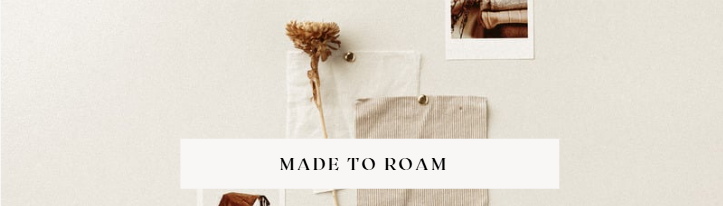
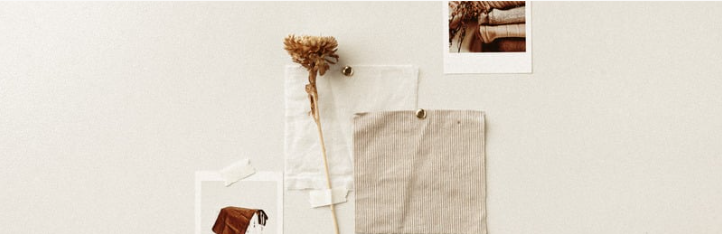
Updated product cards, added welcome animation & added photos on the about rove and maker pages

diff --git a/products.html b/products.html
@@ -4,6 +4,9 @@
         <meta charset="UTF-8">
         <meta name="viewport" content="width=device-width, initial-scale=1.0">
         <title>Rove Crafts</title>
+        <link rel="preconnect" href="https://fonts.googleapis.com">
+        <link rel="preconnect" href="https://fonts.gstatic.com" crossorigin>
+        <link href="https://fonts.googleapis.com/css2?family=Dancing+Script:wght@400..700&display=swap" rel="stylesheet">
         <link rel="stylesheet" href="style.css">
         <link href="https://cdn.jsdelivr.net/npm/bootstrap@5.3.0/dist/css/bootstrap.min.css" rel="stylesheet">
     </head>
@@ -20,7 +23,7 @@
                     <li><a href="contact.html">Contact</a></li>
                 </ul>
                 <ul>
-                    <li><a href="#">Rove Crafts</a></li>
+                    <li class="logo"><a href="#">Rove Crafts</a></li>
                     <li class="hideOnMobile"><a href="index.html">Home</a></li>
                     <li class="hideOnMobile"><a href="products.html">Products</a></li>
                     <li class="hideOnMobile"><a href="about.html">About Rove</a></li>             
@@ -41,9 +44,11 @@
         <div class="product-card">
           <img src="product1.jpg" alt="Bag 1" onclick="openLightbox(this.src)" />
           <div class="info">
-            <h3>Product 1</h3>
-            <p>P 250.00</p>
-            <a href="https://wa.me/26773376600/?text=Hi! I would like to order Product 4" class="order-btn">Order Now</a>
+            <h3>Donut Bag</h3>
+            <p class="price">P 350.00</p>
+            <p class="size">Size:Approx. 35cm (W) x 30cm (H)</p>
+            <p class="description">A sleek, classic shoulder bag designed to hold your daily essentials with a clean, structured silhouette..</p>
+            <a href="https://wa.me/26773376600/?text=Hi! I would like to order the Donut Bag" class="order-btn">Order Now</a>
           </div>
         </div>
       </div>
@@ -52,9 +57,11 @@
         <div class="product-card">
           <img src="product2.jpg" alt="Bag 2" onclick="openLightbox(this.src)" />
           <div class="info">
-            <h3>Product 2</h3>
-            <p>P 250.00</p>
-            <a href="https://wa.me/26773376600/?text=Hi! I would like to order Product 2" class="order-btn">Order Now</a>
+            <h3>The Essential</h3>
+            <p class="price">P 275.00</p>
+            <p class="size">Size:Approx. 35cm (W) x 40cm (H)</p>
+            <p class="description">Our signature everyday bag, meticulously hand-stitched for maximum durability and a modern, minimalist look.</p>
+            <a href="https://wa.me/26773376600/?text=Hi! I would like to order The Essential Bag" class="order-btn">Order Now</a>
           </div>
         </div>
       </div>
@@ -63,9 +70,11 @@
         <div class="product-card">
           <img src="product3.jpg" alt="Bag 3" onclick="openLightbox(this.src)" />
           <div class="info">
-            <h3>Product 3</h3>
-            <p >P 250.00</p>
-            <a href="https://wa.me/26773376600/?text=Hi! I would like to order Product 3" class="order-btn">Order Now</a>
+            <h3>The Tote Mini</h3>
+            <p class="price">P 300.00</p>
+            <p class="size">Size: Approx. 30cm (W) x 25cm (H)</p>
+            <p class="description">Features a reinforced, integrated top handle, blending a compact size with a bold, chunky texture.</p>
+            <a href="https://wa.me/26773376600/?text=Hi! I would like to order the Tote Mini" class="order-btn">Order Now</a>
           </div>
         </div>
       </div>
@@ -74,9 +83,11 @@
         <div class="product-card">
           <img src="product4.jpg" alt="Bag 4" onclick="openLightbox(this.src)" />
           <div class="info">
-            <h3>Product 4</h3>
-            <p>P 250.00</p>
-            <a href="https://wa.me/26773376600/?text=Hi! I would like to order Product 4" class="order-btn">Order Now</a>
+            <h3>The Capsule</h3>
+            <p class="price">P 250.00</p>
+            <p class="size">Size: Approx. 25cm (W) x 30cm (H)</p>
+            <p class="description">A structured, timeless silhouette detailed with metallic connecting rings for a tailored, boutique finish.</p>
+            <a href="https://wa.me/26773376600/?text=Hi! I would like to order The Capsule" class="order-btn">Order Now</a>
           </div>
         </div>
       </div>

diff --git a/style.css b/style.css
@@ -8,6 +8,73 @@ body {
     background-color: #f8f7f6;
     color: #333;
 }
+#welcome-screen {
+  position: fixed;
+  inset: 0;
+  z-index: 99999;
+  display: flex;
+  align-items: center;
+  justify-content: center;
+  flex-direction: column;
+  transition: opacity 0.8s ease;
+}
+
+#welcome-screen.fade-out {
+  opacity: 0;
+  pointer-events: none;
+}
+
+#welcome-content {
+  text-align: center;
+  color: #333;
+}
+
+#welcome-content h1 {
+  font-size: 48px;
+  font-weight: 600;
+  opacity: 0;
+  transform: translateY(20px);
+  animation: slideUp 0.8s ease forwards;
+}
+
+#welcome-content p {
+  font-size: 18px;
+  opacity: 0;
+  transform: translateY(20px);
+  animation: slideUp 0.8s ease 0.3s forwards;
+}
+
+@keyframes slideUp {
+  to {
+    opacity: 1;
+    transform: translateY(0);
+  }
+}
+
+body.blurred header,
+body.blurred main,
+body.blurred footer {
+  filter: blur(8px);
+  transition: filter 0.8s ease;
+}
+
+@media (max-width: 480px) {
+  #welcome-content h1 {
+    font-size: 32px;
+  }
+  #welcome-content p {
+    font-size: 15px;
+  }
+}
+
+.logo{
+  font-family: 'Dancing Script', cursive;
+  font-size: 30px;
+  font-weight: 700;
+  color: #333;
+}
+
+
 nav{
     background-color: rgb(238, 224, 207);
     box-shadow: 3px 3px 5px rgba(0, 0, 0, 0.1) ;
@@ -119,6 +186,29 @@ nav li:first-child{
   }
 }
 
+.page-banner {
+  position: relative;
+  width: 100%;
+  height: 250px;      
+  overflow: hidden;
+}
+
+.page-banner img {
+  width: 100%;
+  height: 100%;
+  object-fit: cover;
+  display: block;
+}
+
+@media (max-width: 768px) {
+  .page-banner {
+    height: 160px;
+  }
+
+  .page-banner .banner-text h1 {
+    font-size: 22px;
+  }
+}
 .product-card {
   background: #fff;
   border: 1px solid #e0e0e0;
@@ -143,6 +233,27 @@ nav li:first-child{
 .product-card .info {
   padding: 12px 14px 14px;
 }
+
+.product-card .price {
+  font-size: 18px;
+  font-weight: 500;
+  color: black;      
+  margin-bottom: 4px;
+}
+
+.product-card .size {
+  font-size: 16px;
+  color: black;
+  margin-bottom: 6px;
+}
+
+.product-card .description {
+  font-size: 16px;
+  color: black;
+  line-height: 1.5;
+  margin-bottom: 12px;
+}
+
 .order-btn {
   display: block;
   width: 100%;

diff --git a/index.html b/index.html
@@ -4,10 +4,22 @@
         <meta charset="UTF-8">
         <meta name="viewport" content="width=device-width, initial-scale=1.0">
         <title>Rove Crafts</title>
+        <link rel="preconnect" href="https://fonts.googleapis.com">
+        <link rel="preconnect" href="https://fonts.gstatic.com" crossorigin>
+        <link href="https://fonts.googleapis.com/css2?family=Dancing+Script:wght@400..700&display=swap" rel="stylesheet">
         <link rel="stylesheet" href="style.css">
         <link href="https://cdn.jsdelivr.net/npm/bootstrap@5.3.0/dist/css/bootstrap.min.css" rel="stylesheet">
     </head>
     <body>
+
+      <div id="welcome-screen">
+        <div id="welcome-content">
+          <h2>Welcome To</h2>
+          <h1>Rove Crafts</h1>
+          <h3>~made to roam</h3>
+        </div>
+      </div>
+
         <header>
             <nav>
                 <ul class="sidebar">
@@ -20,7 +32,7 @@
                     <li><a href="contact.html">Contact</a></li>
                 </ul>
                 <ul>
-                    <li><a href="#">Rove Crafts</a></li>
+                    <li class="logo"><a href="#">Rove Crafts</a></li>
                     <li class="hideOnMobile"><a href="index.html">Home</a></li>
                     <li class="hideOnMobile"><a href="products.html">Products</a></li>
                     <li class="hideOnMobile"><a href="about.html">About Rove</a></li>             
@@ -31,7 +43,10 @@
             </nav>   
         </header>
 
-           
+        <div class="page-banner">
+            <img src="homepage.png" alt="Page banner" />
+        </div> 
+ 
         
         <main>
             <p>Rove Crafts Welcomes You!</p>

diff --git a/maker.html b/maker.html
@@ -4,6 +4,9 @@
         <meta charset="UTF-8">
         <meta name="viewport" content="width=device-width, initial-scale=1.0">
         <title>Rove Crafts</title>
+        <link rel="preconnect" href="https://fonts.googleapis.com">
+        <link rel="preconnect" href="https://fonts.gstatic.com" crossorigin>
+        <link href="https://fonts.googleapis.com/css2?family=Dancing+Script:wght@400..700&display=swap" rel="stylesheet">
         <link rel="stylesheet" href="style.css">
         <link href="https://cdn.jsdelivr.net/npm/bootstrap@5.3.0/dist/css/bootstrap.min.css" rel="stylesheet">
     </head>
@@ -20,7 +23,7 @@
                     <li><a href="contact.html">Contact</a></li>
                 </ul>
                 <ul>
-                    <li><a href="#">Rove Crafts</a></li>
+                    <li clas="logo"><a href="#">Rove Crafts</a></li>
                     <li class="hideOnMobile"><a href="index.html">Home</a></li>
                     <li class="hideOnMobile"><a href="products.html">Products</a></li>
                     <li class="hideOnMobile"><a href="about.html">About Rove</a></li>             
@@ -35,7 +38,7 @@
                 <div class="row align-items-center g-4">
 
                     <div class="col-12 col-md-5">
-                        <img src="makerphoto.jpg" alt="The Maker"
+                        <img src="myphoto.jpg" alt="The Maker"
                         class="img-fluid rounded"/>
                     </div>
 

diff --git a/about.html b/about.html
@@ -4,6 +4,9 @@
         <meta charset="UTF-8">
         <meta name="viewport" content="width=device-width, initial-scale=1.0">
         <title>Rove Crafts</title>
+        <link rel="preconnect" href="https://fonts.googleapis.com">
+        <link rel="preconnect" href="https://fonts.gstatic.com" crossorigin>
+        <link href="https://fonts.googleapis.com/css2?family=Dancing+Script:wght@400..700&display=swap" rel="stylesheet">
         <link rel="stylesheet" href="style.css">
         <link href="https://cdn.jsdelivr.net/npm/bootstrap@5.3.0/dist/css/bootstrap.min.css" rel="stylesheet">
     </head>
@@ -20,7 +23,7 @@
                     <li><a href="contact.html">Contact</a></li>
                 </ul>
                 <ul>
-                    <li><a href="#">Rove Crafts</a></li>
+                    <li class="logo"><a href="#">Rove Crafts</a></li>
                     <li class="hideOnMobile"><a href="index.html">Home</a></li>
                     <li class="hideOnMobile"><a href="products.html">Products</a></li>
                     <li class="hideOnMobile"><a href="about.html">About Rove</a></li>             
@@ -30,6 +33,12 @@
                 </ul> 
             </nav>   
         </header>
+
+        <div class="page-banner">
+            <img src="about.banner.jpg" alt="Page banner" />
+        </div>
+
+
         <main>
             <div class="container my-5">
                 <div class="row align-items-center g-4">

diff --git a/contact.html b/contact.html
@@ -4,6 +4,9 @@
         <meta charset="UTF-8">
         <meta name="viewport" content="width=device-width, initial-scale=1.0">
         <title>Rove Crafts</title>
+        <link rel="preconnect" href="https://fonts.googleapis.com">
+        <link rel="preconnect" href="https://fonts.gstatic.com" crossorigin>
+        <link href="https://fonts.googleapis.com/css2?family=Dancing+Script:wght@400..700&display=swap" rel="stylesheet">
         <link rel="stylesheet" href="style.css">
         <link href="https://cdn.jsdelivr.net/npm/bootstrap@5.3.0/dist/css/bootstrap.min.css" rel="stylesheet">
     </head>
@@ -20,7 +23,7 @@
                     <li><a href="contact.html">Contact</a></li>
                 </ul>
                 <ul>
-                    <li><a href="#">Rove Crafts</a></li>
+                    <li class="logo"><a href="#">Rove Crafts</a></li>
                     <li class="hideOnMobile"><a href="index.html">Home</a></li>
                     <li class="hideOnMobile"><a href="products.html">Products</a></li>
                     <li class="hideOnMobile"><a href="about.html">About Rove</a></li>             

diff --git a/script.js b/script.js
@@ -1,3 +1,20 @@
+const welcomeScreen = document.getElementById('welcome-screen');
+
+if (welcomeScreen) {
+  document.body.classList.add('blurred');
+
+  setTimeout(function () {
+    welcomeScreen.classList.add('fade-out');
+    document.body.classList.remove('blurred');
+
+    setTimeout(function () {
+      welcomeScreen.style.display = 'none';
+    }, 800);
+
+  }, 3000);
+}
+
+
  function showSidebar(){
     const sidebar = document.querySelector('.sidebar').classList.add('active');
     sidebar.style.display = 'flex'
@@ -44,7 +61,7 @@ revealButton.addEventListener('click', function() {
 
     if (funFact.classList.contains('show')) { 
 
-        revealButton.textContent = 'J Hide Fun Fact'; 
+        revealButton.textContent = 'Hide Fun Fact'; 
 
     } else { 
 
